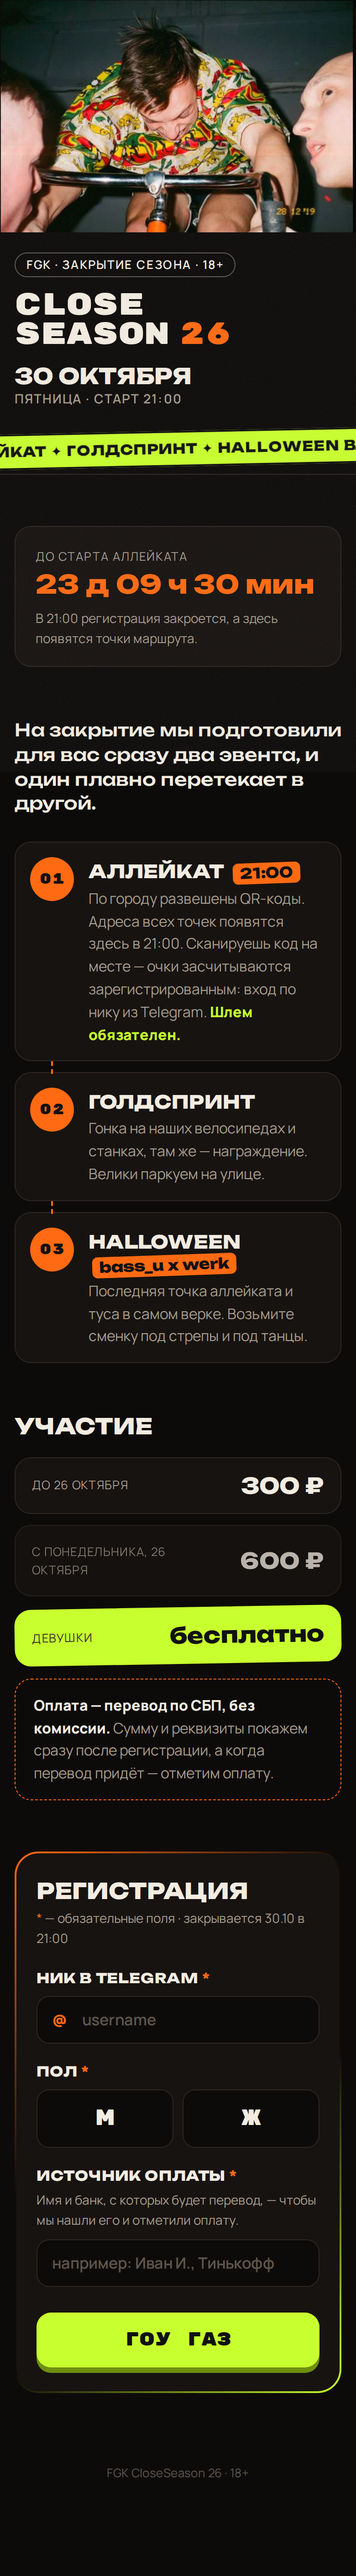
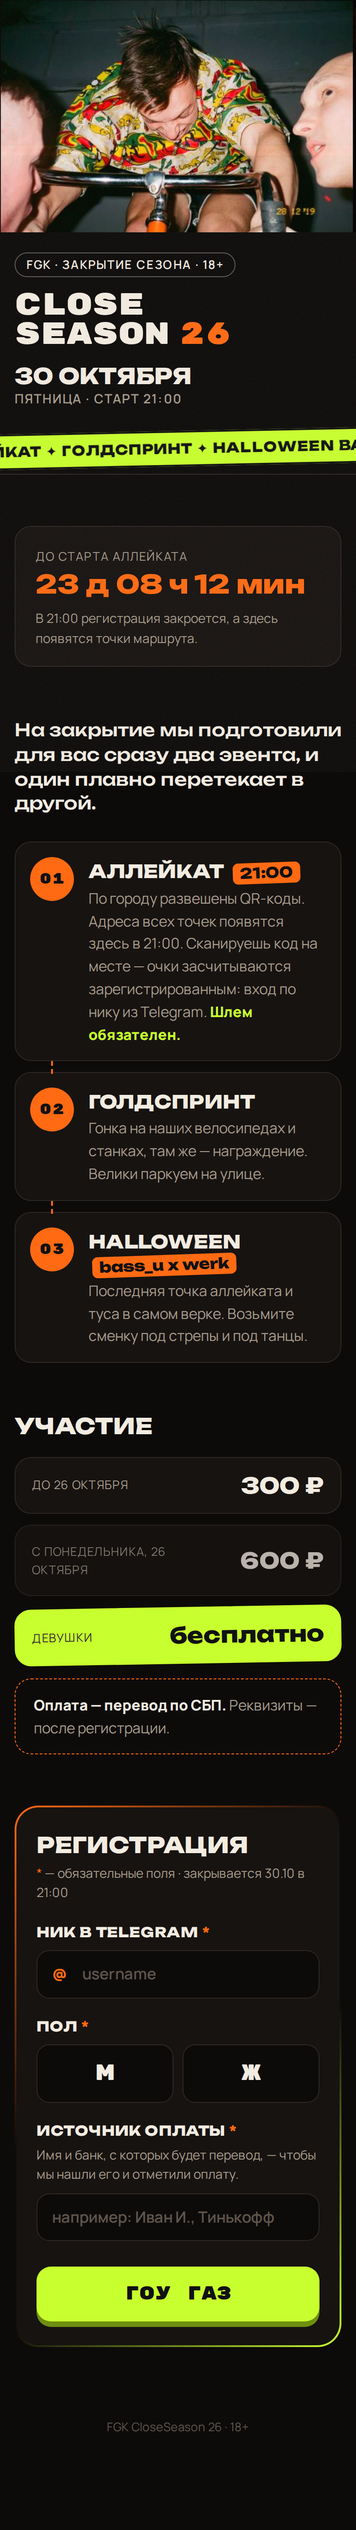
Экран после регистрации без «ты в игре под @ник»
Claude-Session: https://claude.ai/code/session_0122weFEyBkPzVmy7e3pz2TB

Changed region(s): [[0.0308, 0.2176, 0.9846, 0.9328], [0.0, 0.0, 1.0, 0.1866], [0.8308, 0.8395, 0.8615, 0.8706]]

diff --git a/app.js b/app.js
@@ -512,7 +512,7 @@
       signIn(res.nick);
       showDone(res, res.already
         ? "@" + res.nick + " уже был в списке — всё в силе."
-        : "30 октября в 21:00 здесь появятся точки маршрута — ты в игре под @" + res.nick + ". Не забудь шлем.");
+        : "30 октября в 21:00 здесь появятся точки маршрута. Не забудь шлем.");
       done.focus();
     } catch (err) {
       $("form-status").textContent = "Нет связи с сервером, попробуй ещё раз";
@@ -604,7 +604,7 @@
     if (mode === "pay") {
       const res = await demo.register({ telegram: "night_rider", gender: "М" });
       signIn(res.nick);
-      showDone(res, "30 октября в 21:00 здесь появятся точки маршрута — ты в игре под @" + res.nick + ". Не забудь шлем.");
+      showDone(res, "30 октября в 21:00 здесь появятся точки маршрута. Не забудь шлем.");
     }
     if (mode === "scan-ok") scan("c6", "demo", demo.fakePosition("c6"));
     if (mode === "scan-far") scan("c5", "demo", demo.fakePosition("c5", true));
